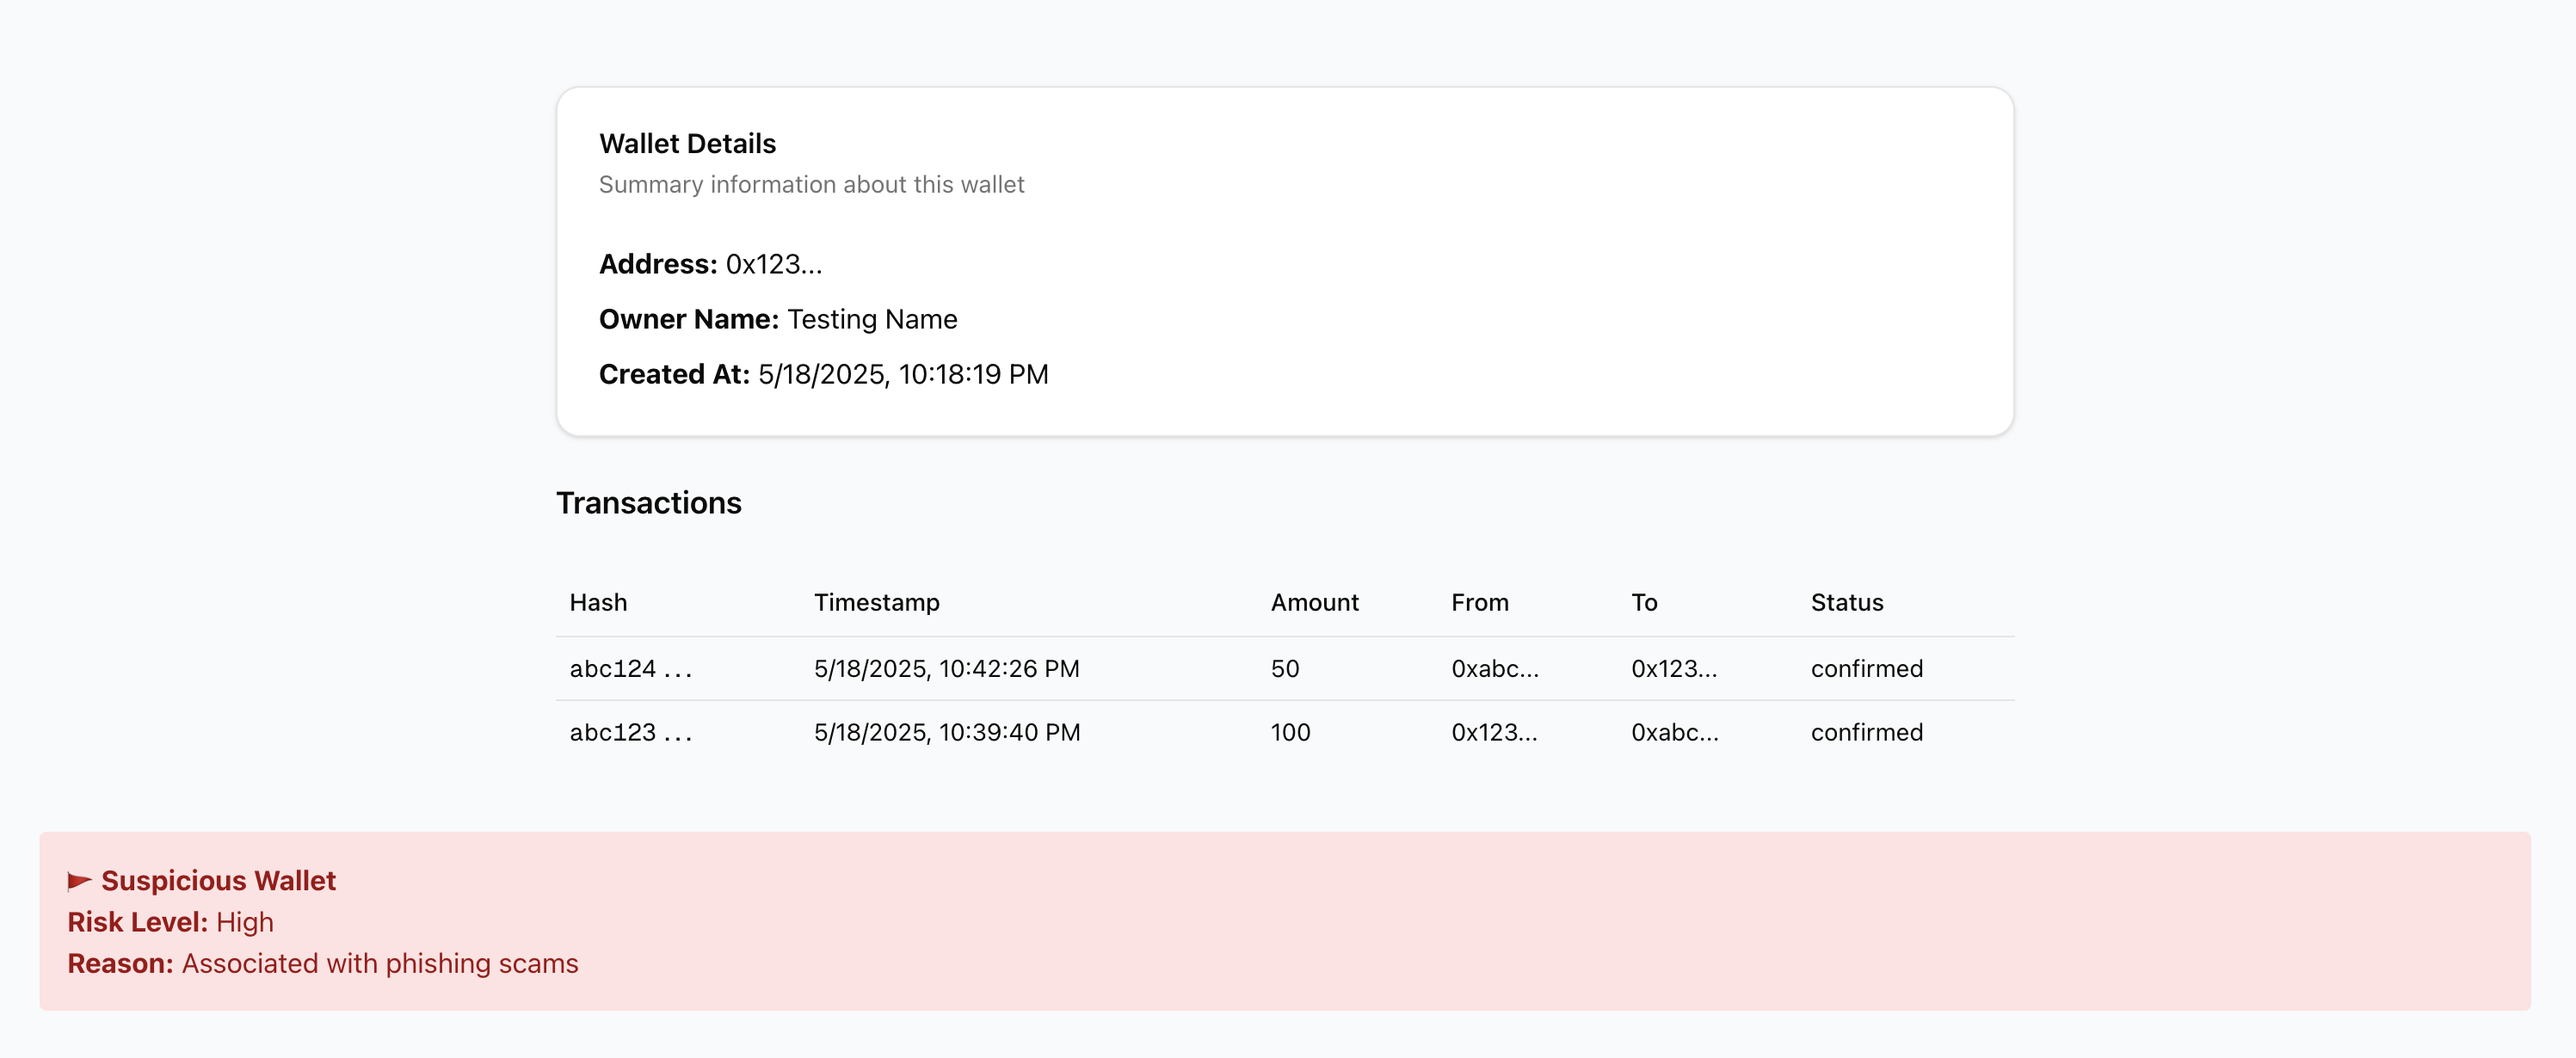
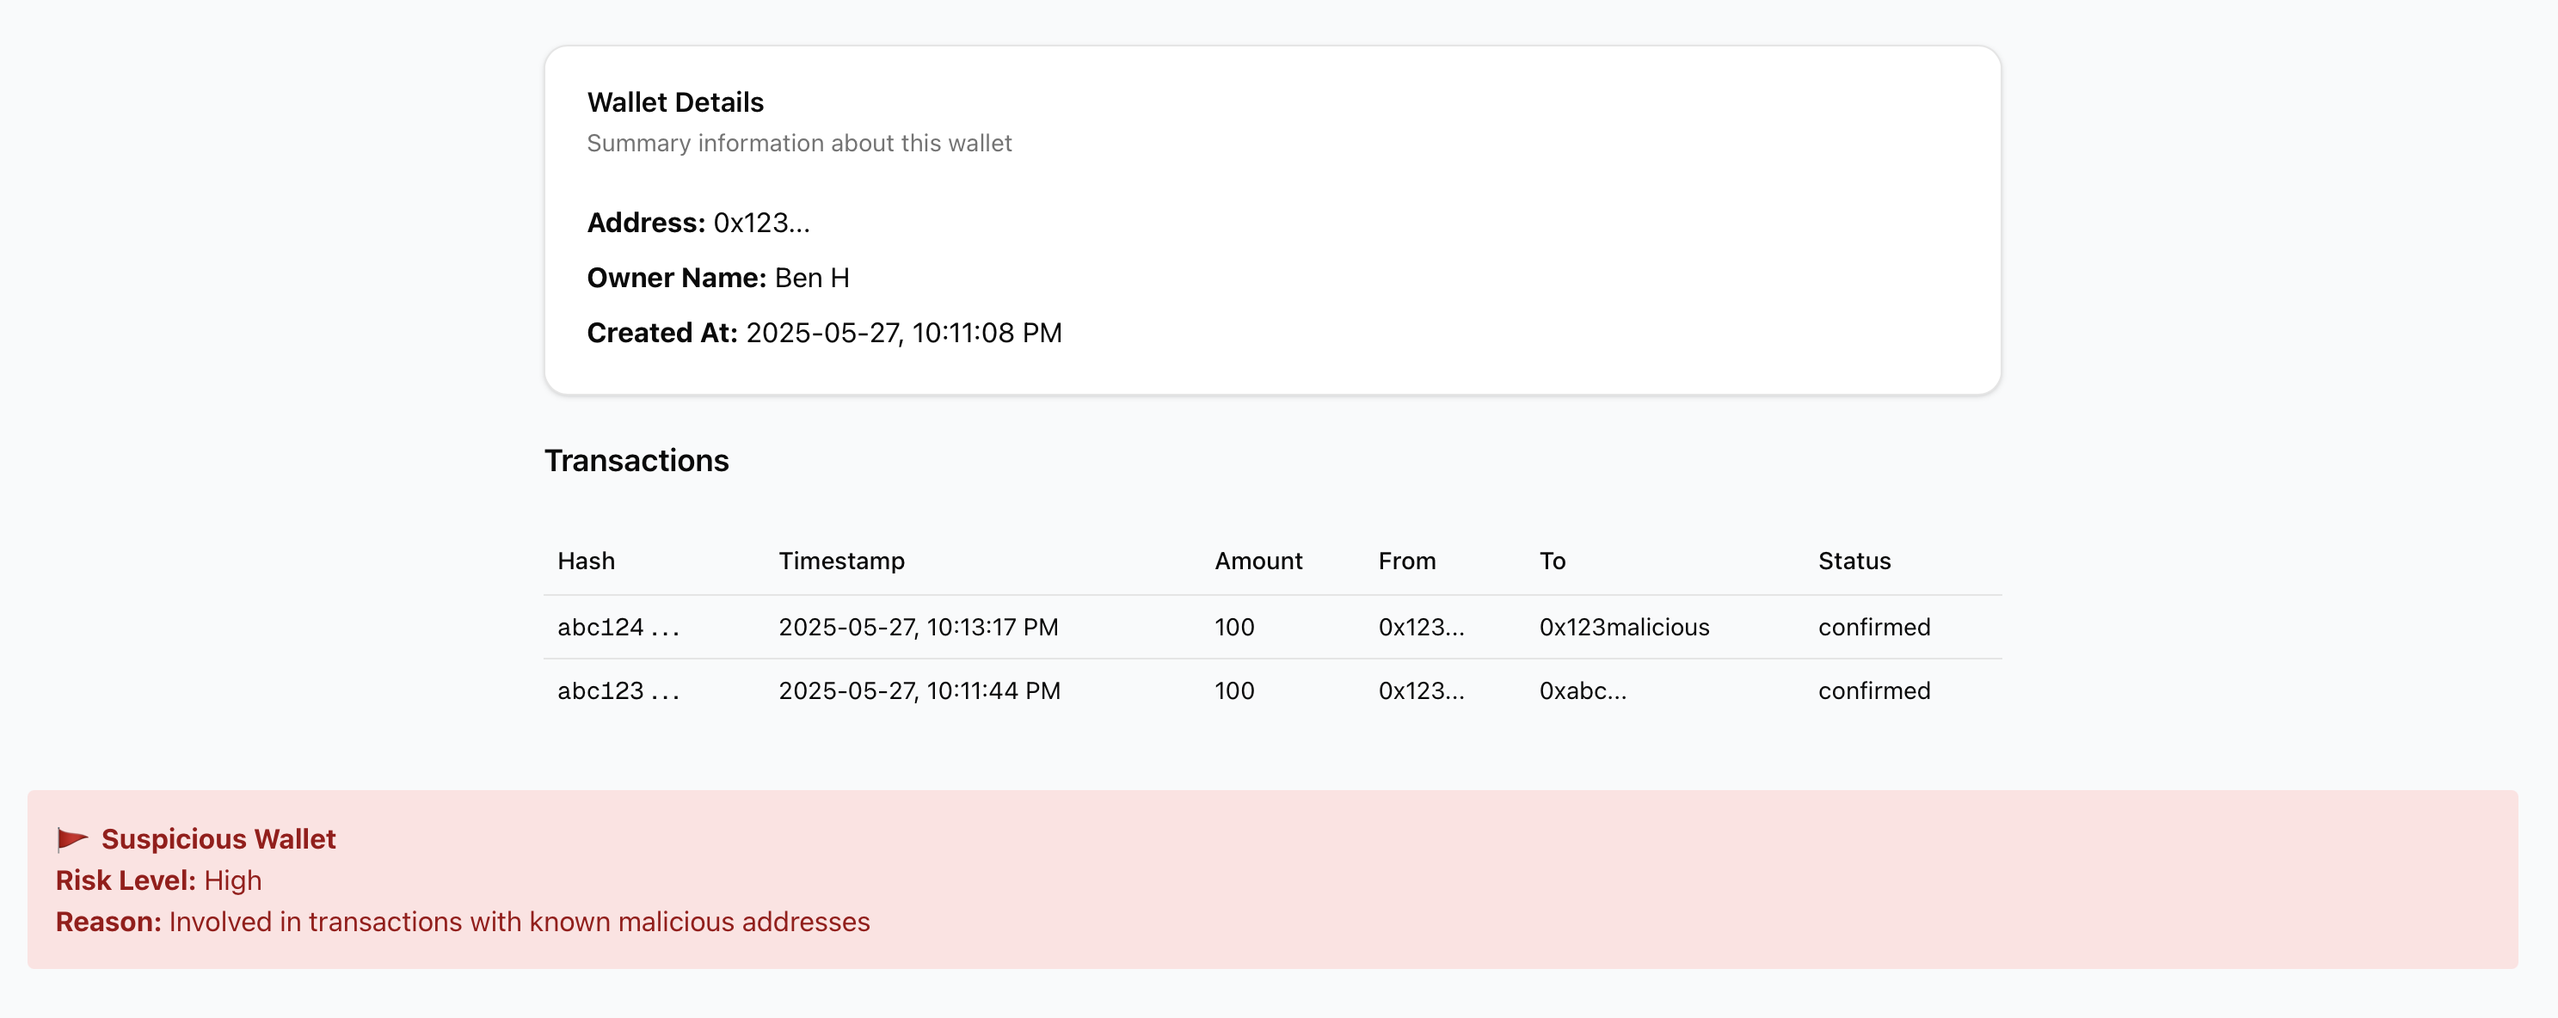
updated suspicious wallet monitor project

diff --git a/src/app/components/Resume.tsx b/src/app/components/Resume.tsx
@@ -157,8 +157,8 @@ export default async function Resume() {
             <p className="text-lg">
               A simulated web page where users can enter their crypto wallet
               address to view wallet details, mock transactions, and receive a
-              flag with reasoning and risk level if suspicious activity is
-              detected.
+              flag with reasoning and risk level if a transaction to or from a
+              known malicious wallet address is detected.
             </p>
             <p className="text-base font-bold mt-2">
               Python 3(FastAPI), PostgreSQL, Next.js(TypeScript), Tailwind CSS,
